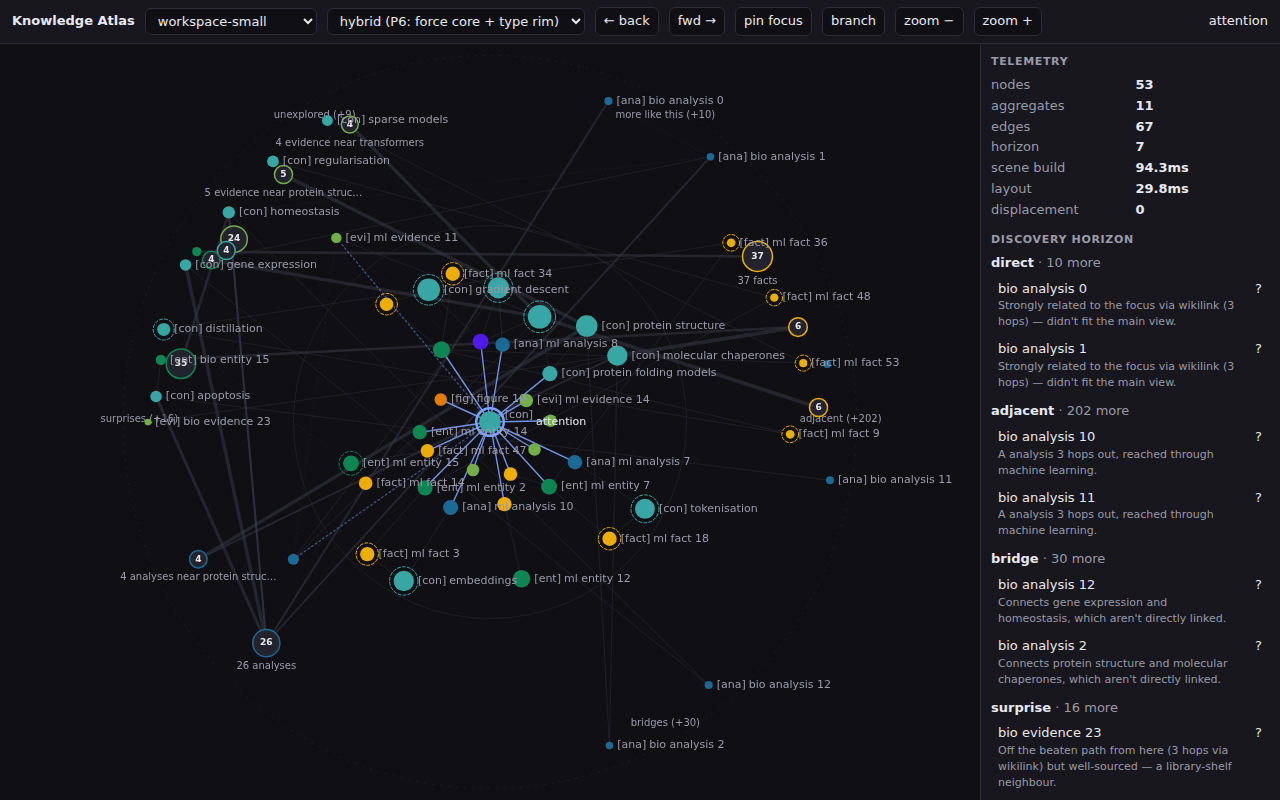
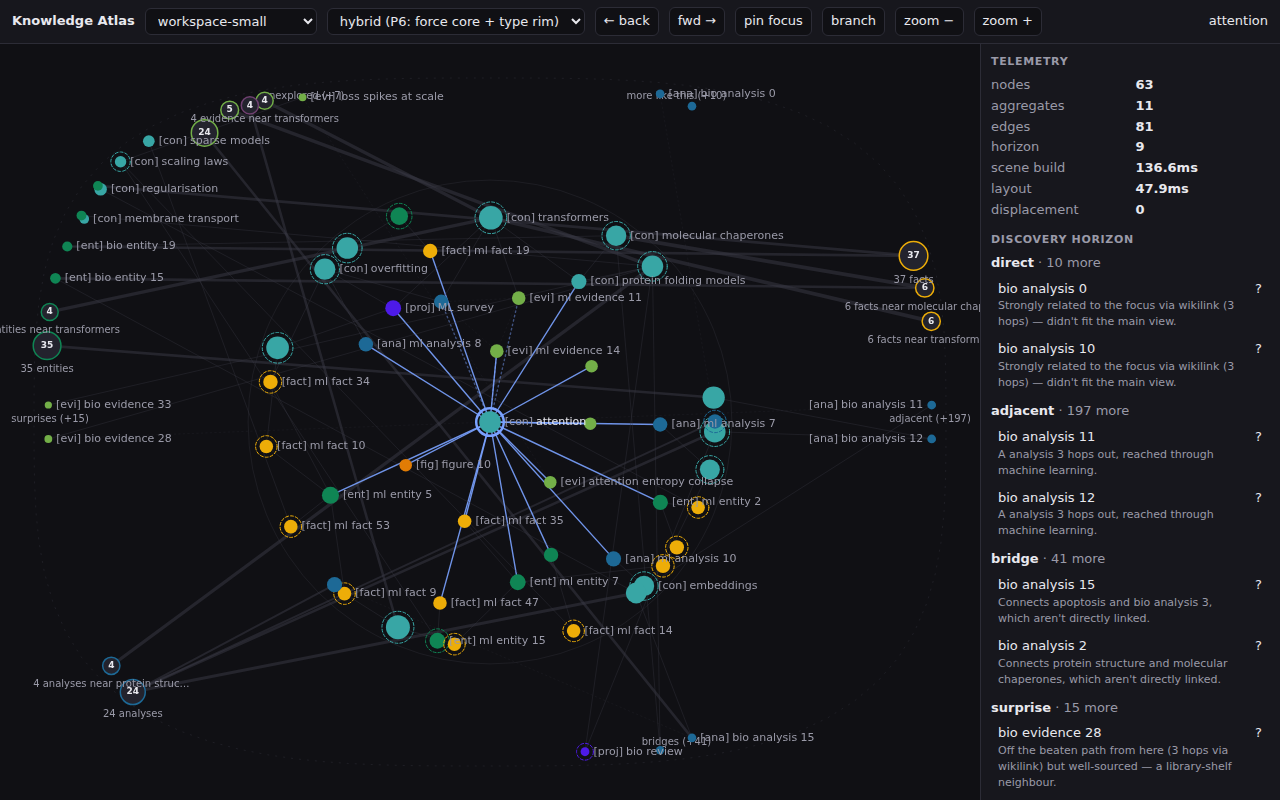
feat(atlas): broader hybrid core, gridlike squircle rim filling the corners
Iteration-3 feedback: core radius 0.26->0.32 of the short side,
CORE_SHARE 0.67->0.82, default node budget 60->72; per-node radial
clamp replaces the uniform cloud shrink so the force graph fills the
broadened zone with natural spacing. Rim boundary becomes a
superellipse inscribed in the viewport (core/geometry.ts, shared by
layout and renderer) and rim items are laid out as gridlike shelves
per type sector — rows anchored against the outer wall, stacking
inward, highest-relevance innermost — so the previously-unused screen
corners fill with aligned rows. Labels near the right wall flip to the
node's left instead of clipping. Vendored bundle + sha256 refreshed;
results.md records the iteration.

Claude-Session: https://claude.ai/code/session_014CNV6gA3MvsLq6V9rubqis

diff --git a/packages/knowledge-atlas/src/core/layout/hybrid.ts b/packages/knowledge-atlas/src/core/layout/hybrid.ts
@@ -20,6 +20,7 @@ import {
   forceSimulation,
 } from "d3-force";
 import { anchorAngle } from "../scene/landmarks.ts";
+import { coreRadius, rimRadiusAt } from "../geometry.ts";
 import {
   aggregateRadius,
   meanDisplacement,
@@ -29,19 +30,13 @@ import {
 } from "./types.ts";
 import type { DiscoveryClass, LayoutPoint, LayoutResult, SceneData } from "../types.ts";
 
+export { coreRadius, rimRadiusAt } from "../geometry.ts";
+
 const CLASS_ORDER: DiscoveryClass[] = ["direct", "adjacent", "bridge", "contrast", "surprise", "unexplored"];
 
-/** Share of non-horizon, non-focus nodes kept in the force core. */
-export const CORE_SHARE = 0.67;
-
-/** Core-zone radius for a viewport (shared with the adapters' lens). */
-export function coreRadius(viewport: { width: number; height: number }): number {
-  return Math.min(viewport.width, viewport.height) * 0.26;
-}
-
-export function discRadius(viewport: { width: number; height: number }): number {
-  return Math.min(viewport.width, viewport.height) * 0.47;
-}
+/** Share of non-horizon, non-focus nodes kept in the force core
+ * (iteration-3: raised from 0.67). */
+export const CORE_SHARE = 0.82;
 
 type SimNode = { id: string; r: number; x?: number; y?: number };
 
@@ -49,8 +44,7 @@ export const hybridLayout: LayoutAdapter = {
   id: "hybrid",
   layout(scene: SceneData, ctx: LayoutContext): LayoutResult {
     const Rcore = coreRadius(ctx.viewport);
-    const R = discRadius(ctx.viewport);
-    const rimInner = Rcore * 1.22;
+    const rimInner = Rcore * 1.18;
     const positions = new Map<string, LayoutPoint>();
 
     const horizonIds = new Map<string, DiscoveryClass>();
@@ -83,12 +77,12 @@ export const hybridLayout: LayoutAdapter = {
         "link",
         forceLink(coreLinks as never[])
           .id((d) => (d as unknown as SimNode).id)
-          .distance(52)
-          .strength(0.6),
+          .distance(64)
+          .strength(0.55),
       )
-      .force("charge", forceManyBody().strength(-180).distanceMax(Rcore * 2))
-      .force("center", forceCenter(0, 0).strength(0.08))
-      .force("collide", forceCollide((d) => (d as unknown as SimNode).r + 6))
+      .force("charge", forceManyBody().strength(-340).distanceMax(Rcore * 2.2))
+      .force("center", forceCenter(0, 0).strength(0.06))
+      .force("collide", forceCollide((d) => (d as unknown as SimNode).r + 8))
       .stop();
     for (let i = 0; i < 300; i++) sim.tick();
 
@@ -96,16 +90,20 @@ export const hybridLayout: LayoutAdapter = {
     const focusSim = focus ? coreNodes.find((n) => n.id === focus.id) : undefined;
     const cx = focusSim?.x ?? 0;
     const cy = focusSim?.y ?? 0;
-    let maxR = 1;
+    // Per-node radial clamp: outliers are projected back onto the core
+    // boundary instead of shrinking the whole cloud uniformly — the
+    // interior keeps its natural spacing and the broadened zone is
+    // actually used.
+    const rMax = Rcore * 0.93;
     for (const sn of coreNodes) {
-      sn.x = (sn.x ?? 0) - cx;
-      sn.y = (sn.y ?? 0) - cy;
-      const d = Math.hypot(sn.x, sn.y);
-      if (d > maxR) maxR = d;
-    }
-    const clamp = Math.min(1, (Rcore * 0.92) / maxR);
-    for (const sn of coreNodes) {
-      positions.set(sn.id, { x: sn.x! * clamp, y: sn.y! * clamp, r: sn.r });
+      let x = (sn.x ?? 0) - cx;
+      let y = (sn.y ?? 0) - cy;
+      const d = Math.hypot(x, y);
+      if (d > rMax) {
+        x *= rMax / d;
+        y *= rMax / d;
+      }
+      positions.set(sn.id, { x, y, r: sn.r });
     }
 
     // ── rim: hyperbolic doc-type sectors ─────────────────────────────
@@ -138,26 +136,49 @@ export const hybridLayout: LayoutAdapter = {
       });
     }
 
+    // Gridlike shelves per sector (iteration-3 feedback): items fill
+    // ordered rows stacking OUTWARD from the core boundary toward the
+    // squircle rim, columns fanned tangentially. Highest-relevance row
+    // sits innermost; diagonal sectors have a deeper radial run, so
+    // the screen corners fill with aligned rows instead of staying
+    // empty. Grouped by sector only — the hop band now just biases the
+    // ordering so nearer material lands on inner rows.
+    const ROW_GAP = 34;
+    const COL_GAP = 34;
+    const SECTOR_ARC = 0.78; // max tangential fan per sector (radians)
     const groups = new Map<string, P[]>();
     for (const p of placements) {
-      const key = `${p.sector.toFixed(3)}|${p.band.toFixed(2)}`;
+      const key = p.sector.toFixed(3);
       (groups.get(key) ?? groups.set(key, []).get(key)!).push(p);
     }
     for (const list of groups.values()) {
-      list.sort((a, b) => b.order - a.order || (a.id < b.id ? -1 : 1));
-      const n = list.length;
-      const spread = Math.min(1.0, 0.17 * n);
-      for (let i = 0; i < n; i++) {
+      list.sort(
+        (a, b) => a.band - b.band || b.order - a.order || (a.id < b.id ? -1 : 1),
+      );
+      const sector = list[0].sector;
+      const Router = rimRadiusAt(sector, ctx.viewport);
+      // Shelf block anchored against the OUTER squircle wall so the
+      // rim content sits out in the corners; within the block, the
+      // innermost row holds the highest-relevance items (nearer stays
+      // nearer). Row capacity from the tangential arc at the wall.
+      const capacity = Math.max(1, Math.floor((SECTOR_ARC * (Router - 14)) / COL_GAP));
+      const rows = Math.ceil(list.length / capacity);
+      const innermostRho = Math.max(rimInner + 8, Router - 14 - (rows - 1) * ROW_GAP);
+      for (let i = 0; i < list.length; i++) {
         const p = list[i];
-        const offset = n === 1 ? 0 : (i / (n - 1) - 0.5) * spread;
-        // tanh compression from the core boundary out to the disc rim.
-        const t = Math.tanh(1.4 * (p.band + (i % 3) * 0.09));
-        const rho = rimInner + (R - rimInner) * t;
-        const shrink = 1 - 0.5 * (rho / R) ** 2;
-        const angle = p.sector + offset;
+        const row = Math.floor(i / capacity);
+        const rowItems = Math.min(capacity, list.length - row * capacity);
+        const c = i - row * capacity;
+        const rho = Math.min(Router - 14, innermostRho + row * ROW_GAP);
+        const offset =
+          rowItems === 1 ? 0 : (c - (rowItems - 1) / 2) * Math.min(COL_GAP / rho, SECTOR_ARC / rowItems);
+        const angle = sector + offset;
+        const RouterHere = rimRadiusAt(angle, ctx.viewport);
+        const clampedRho = Math.min(rho, RouterHere - 12);
+        const shrink = 1 - 0.45 * (clampedRho / Math.max(RouterHere, rimInner + 1)) ** 2;
         positions.set(p.id, {
-          x: Math.cos(angle) * rho,
-          y: Math.sin(angle) * rho,
+          x: Math.cos(angle) * clampedRho,
+          y: Math.sin(angle) * clampedRho,
           r: Math.max(2.5, p.r * shrink),
         });
       }

diff --git a/packages/knowledge-atlas/src/renderer/canvas.ts b/packages/knowledge-atlas/src/renderer/canvas.ts
@@ -8,6 +8,7 @@
  */
 
 import { typeColour } from "./theme.ts";
+import { rimRadiusAt } from "../core/geometry.ts";
 import type { DiscoveryClass, LayoutPoint } from "../core/types.ts";
 import type { Frame, SceneRenderer } from "./types.ts";
 
@@ -31,6 +32,15 @@ export class CanvasRenderer implements SceneRenderer {
   mount(canvas: HTMLCanvasElement): void {
     this.canvas = canvas;
     this.ctx = canvas.getContext("2d");
+  }
+
+  private measure(ctx: CanvasRenderingContext2D, text: string): number {
+    let w = this.measureCache.get(text);
+    if (w === undefined) {
+      w = ctx.measureText(text).width;
+      this.measureCache.set(text, w);
+    }
+    return w;
   }
 
   destroy(): void {
@@ -109,12 +119,24 @@ export class CanvasRenderer implements SceneRenderer {
 
     // ── horizon band ────────────────────────────────────────────────
     if (frame.showHorizonRing && frame.scene.horizon.length) {
-      const R = Math.min(width, height) * 0.485;
+      const circleR = Math.min(width, height) * 0.485;
+      // Hybrid mode: the rim is a squircle reaching into the corners;
+      // other modes keep the inscribed circle.
+      const boundaryAt = (angle: number) =>
+        frame.coreRadius ? rimRadiusAt(angle, frame.viewport) : circleR;
       ctx.strokeStyle = T.line;
       ctx.globalAlpha = 0.35;
       ctx.setLineDash([2, 6]);
       ctx.beginPath();
-      ctx.arc(0, 0, R, 0, Math.PI * 2);
+      const STEPS = 96;
+      for (let i = 0; i <= STEPS; i++) {
+        const th = (i / STEPS) * 2 * Math.PI;
+        const r = boundaryAt(th);
+        const x = Math.cos(th) * r;
+        const y = Math.sin(th) * r;
+        if (i === 0) ctx.moveTo(x, y);
+        else ctx.lineTo(x, y);
+      }
       ctx.stroke();
       ctx.setLineDash([]);
       ctx.globalAlpha = 1;
@@ -122,12 +144,13 @@ export class CanvasRenderer implements SceneRenderer {
       ctx.font = "10px system-ui, sans-serif";
       ctx.textAlign = "center";
       const arc = (2 * Math.PI) / CLASS_ORDER.length;
-      // Captions sit just INSIDE the ring — outside clips at the canvas
-      // edge on narrow (portrait/phone) viewports where R ≈ width/2.
+      // Captions sit just INSIDE the boundary — outside clips at the
+      // canvas edge on narrow (portrait/phone) viewports.
       for (const grp of frame.scene.horizon) {
         const angle = CLASS_ORDER.indexOf(grp.cls) * arc + arc / 2 - Math.PI / 2;
-        const lx = Math.cos(angle) * (R - 16);
-        const ly = Math.sin(angle) * (R - 16);
+        const r = boundaryAt(angle) - 16;
+        const lx = Math.cos(angle) * r;
+        const ly = Math.sin(angle) * r;
         const omitted = grp.omittedCount > 0 ? ` (+${grp.omittedCount})` : "";
         ctx.fillText(`${CLASS_LABEL[grp.cls]}${omitted}`, lx, ly);
       }
@@ -246,31 +269,26 @@ export class CanvasRenderer implements SceneRenderer {
       const p = positions.get(n.id);
       if (!p) continue;
       const text = truncate(n.item.title, 28);
-      const key = text;
-      let w = this.measureCache.get(key);
-      if (w === undefined) {
-        w = ctx.measureText(text).width;
-        this.measureCache.set(key, w);
-      }
-      const lx = p.x + p.r + 4;
+      const w = this.measure(ctx, text);
+      // Flip to the node's left when the label would clip the right
+      // wall (rim shelves sit close to the viewport edge).
+      const prefixW = n.item.meta.titlePrefix ? this.measure(ctx, n.item.meta.titlePrefix) + 3 : 0;
+      const total = w + prefixW;
+      const flip = p.x + p.r + 4 + total > width / 2 - 6;
+      const lx = flip ? p.x - p.r - 4 - total : p.x + p.r + 4;
       const ly = p.y;
-      const box: PlacedLabel = { x: lx - 2, y: ly - 8, w: w + 4, h: 16 };
+      const box: PlacedLabel = { x: lx - 2, y: ly - 8, w: total + 4, h: 16 };
       if (placed.some((q) => overlaps(q, box))) continue;
       placed.push(box);
       labelCount++;
-      ctx.fillStyle = n.role === "focus" ? T.text : T.textMuted;
+      // Prefix + title on one line reads better on canvas than the
+      // SVG two-liner; keep it simple.
       if (n.item.meta.titlePrefix) {
         ctx.fillStyle = T.textMuted;
-        ctx.fillText(n.item.meta.titlePrefix, lx, ly - (n.role === "focus" ? 7 : 0) - (n.role === "focus" ? 0 : 0));
-        // Prefix + title on one line reads better on canvas than the
-        // SVG two-liner; keep it simple.
-        const pw = ctx.measureText(n.item.meta.titlePrefix).width;
-        ctx.fillStyle = n.role === "focus" ? T.text : T.textMuted;
-        ctx.fillText(text, lx + pw + 3, ly);
-        box.w += pw + 3;
-      } else {
-        ctx.fillText(text, lx, ly);
+        ctx.fillText(n.item.meta.titlePrefix, lx, ly);
       }
+      ctx.fillStyle = n.role === "focus" ? T.text : T.textMuted;
+      ctx.fillText(text, lx + prefixW, ly);
     }
 
     // ── aggregate labels ────────────────────────────────────────────

diff --git a/packages/knowledge-atlas/src/core/geometry.ts b/packages/knowledge-atlas/src/core/geometry.ts
@@ -1,0 +1,29 @@
+/**
+ * Shared viewport geometry for the hybrid mode — used by the layout
+ * (placement) and the renderer (boundary/caption drawing), so it lives
+ * outside both.
+ */
+
+export type Viewport = { width: number; height: number };
+
+/** Core-zone radius: the central force-graph disc (iteration-3: broadened). */
+export function coreRadius(viewport: Viewport): number {
+  return Math.min(viewport.width, viewport.height) * 0.32;
+}
+
+const RIM_MARGIN = 34;
+const SQUIRCLE_N = 3.2;
+
+/**
+ * Rim boundary radius at an angle: a superellipse ("squircle")
+ * inscribed in the viewport, so the rim reaches into the screen
+ * corners instead of stopping at the inscribed circle
+ * (iteration-3 feedback: the corners were underused).
+ */
+export function rimRadiusAt(angle: number, viewport: Viewport): number {
+  const a = Math.max(60, viewport.width / 2 - RIM_MARGIN);
+  const b = Math.max(60, viewport.height / 2 - RIM_MARGIN);
+  const c = Math.abs(Math.cos(angle));
+  const s = Math.abs(Math.sin(angle));
+  return 1 / Math.pow(Math.pow(c / a, SQUIRCLE_N) + Math.pow(s / b, SQUIRCLE_N), 1 / SQUIRCLE_N);
+}

diff --git a/packages/knowledge-atlas/src/index.ts b/packages/knowledge-atlas/src/index.ts
@@ -12,7 +12,7 @@ export { clampScale, nextBand } from "./core/zoom.ts";
 export { focusLayout } from "./core/layout/focus.ts";
 export { forceLayout } from "./core/layout/force.ts";
 export { hyperbolicLayout } from "./core/layout/hyperbolic.ts";
-export { hybridLayout, coreRadius, CORE_SHARE } from "./core/layout/hybrid.ts";
+export { hybridLayout, coreRadius, rimRadiusAt, CORE_SHARE } from "./core/layout/hybrid.ts";
 export { adaptiveLayout, classifyTopology } from "./core/layout/adaptive.ts";
 export type { LayoutAdapter, LayoutContext } from "./core/layout/types.ts";
 export { CanvasRenderer } from "./renderer/canvas.ts";

diff --git a/packages/knowledge-atlas/src/core/types.ts b/packages/knowledge-atlas/src/core/types.ts
@@ -341,11 +341,11 @@ export type LayoutResult = {
 };
 
 export const DEFAULT_BUDGET: SceneBudget = {
-  maxNodes: 60,
+  maxNodes: 72,
   maxAggregates: 12,
-  maxEdges: 120,
+  maxEdges: 140,
   maxBundles: 16,
-  maxLabels: 40,
+  maxLabels: 46,
 };
 
 export const DEFAULT_LENS: AtlasLens = { id: "default" };

diff --git a/packages/knowledge-atlas/docs/results.md b/packages/knowledge-atlas/docs/results.md
@@ -128,8 +128,28 @@ and the changes that followed, all landed behind `layout: "hybrid"`:
 
 Open questions for the next round: should the lens pull be continuous
 with the wheel delta (currently stepped at 0.34/notch with visual
-feedback between steps), and should the core's 67% share be
+feedback between steps), and should the core's share be
 lens-adjustable?
+
+### Iteration 3 (same day)
+
+Further feedback on hybrid: broaden the graph zone with more nodes in
+it, and use the screen corners — with a **gridlike** rim arrangement.
+Changes ([img/04-layout-hybrid.png](img/04-layout-hybrid.png)):
+
+- core radius 0.26 → 0.32 of the short viewport side; `CORE_SHARE`
+  0.67 → 0.82; default node budget 60 → 72. The uniform clamp that
+  shrank the whole force cloud was replaced with a per-node radial
+  clamp, so the interior keeps natural spacing and actually fills the
+  broadened zone.
+- the rim boundary is now a superellipse ("squircle",
+  `core/geometry.ts:rimRadiusAt`) inscribed in the viewport instead of
+  the inscribed circle, and rim items are laid out as **gridlike
+  shelves per type sector** — ordered rows anchored against the outer
+  wall, stacking inward, highest-relevance row innermost — so the
+  corner areas fill with aligned rows.
+- labels near the right wall flip to the node's left instead of
+  clipping off-canvas.
 
 ## Recommendation for the next production iteration
 

diff --git a/RELEASE_CHECKLIST.md b/RELEASE_CHECKLIST.md
@@ -12,7 +12,7 @@ Run through this before tagging a new release. Items marked **(security)** must 
       |------|---------|--------|--------|
[4 lines of base64/hex data omitted]
 
       To refresh:
 
